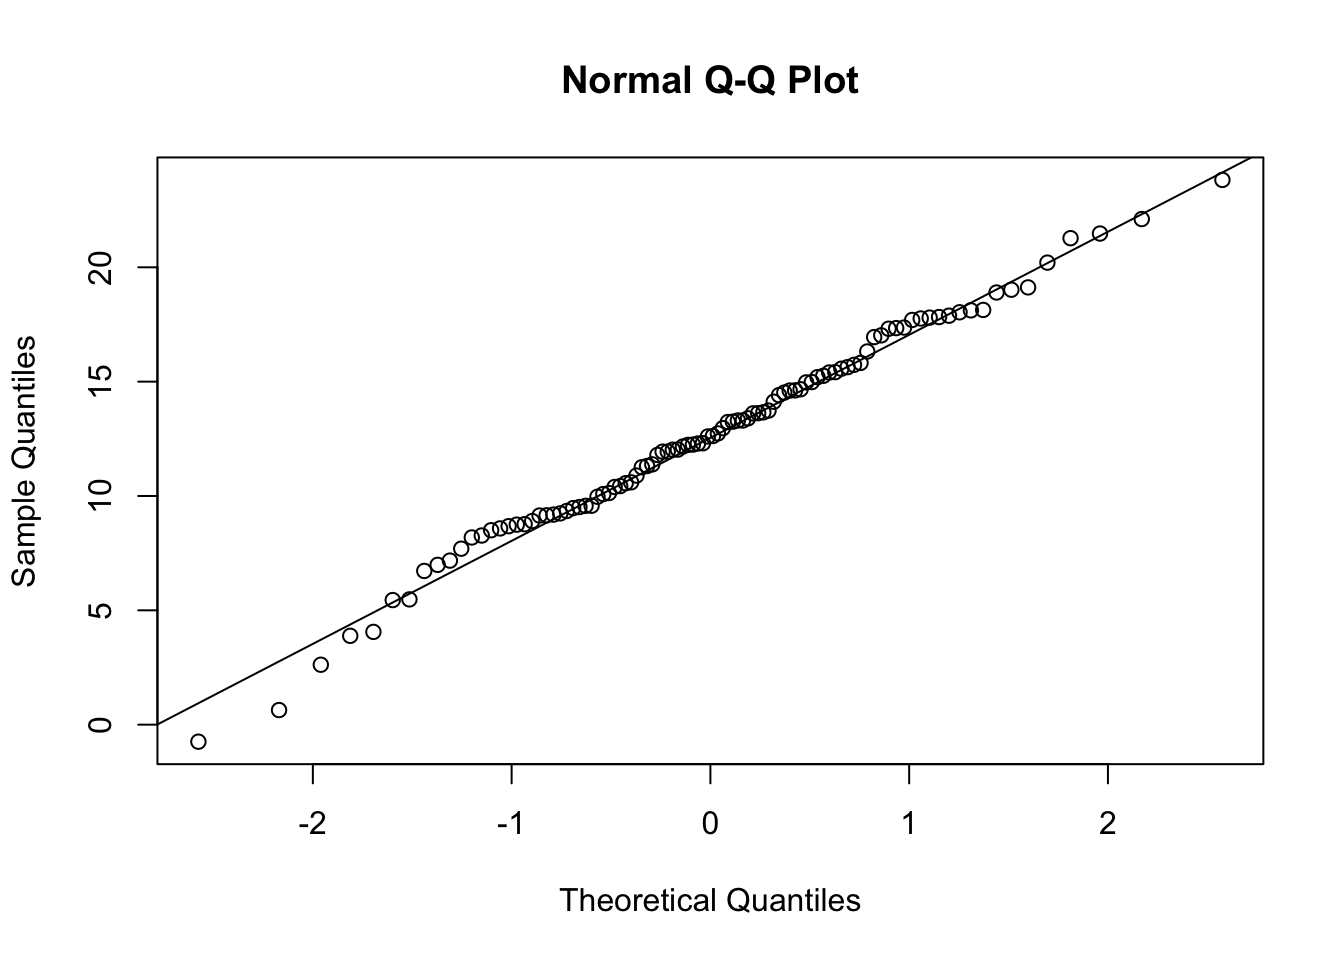
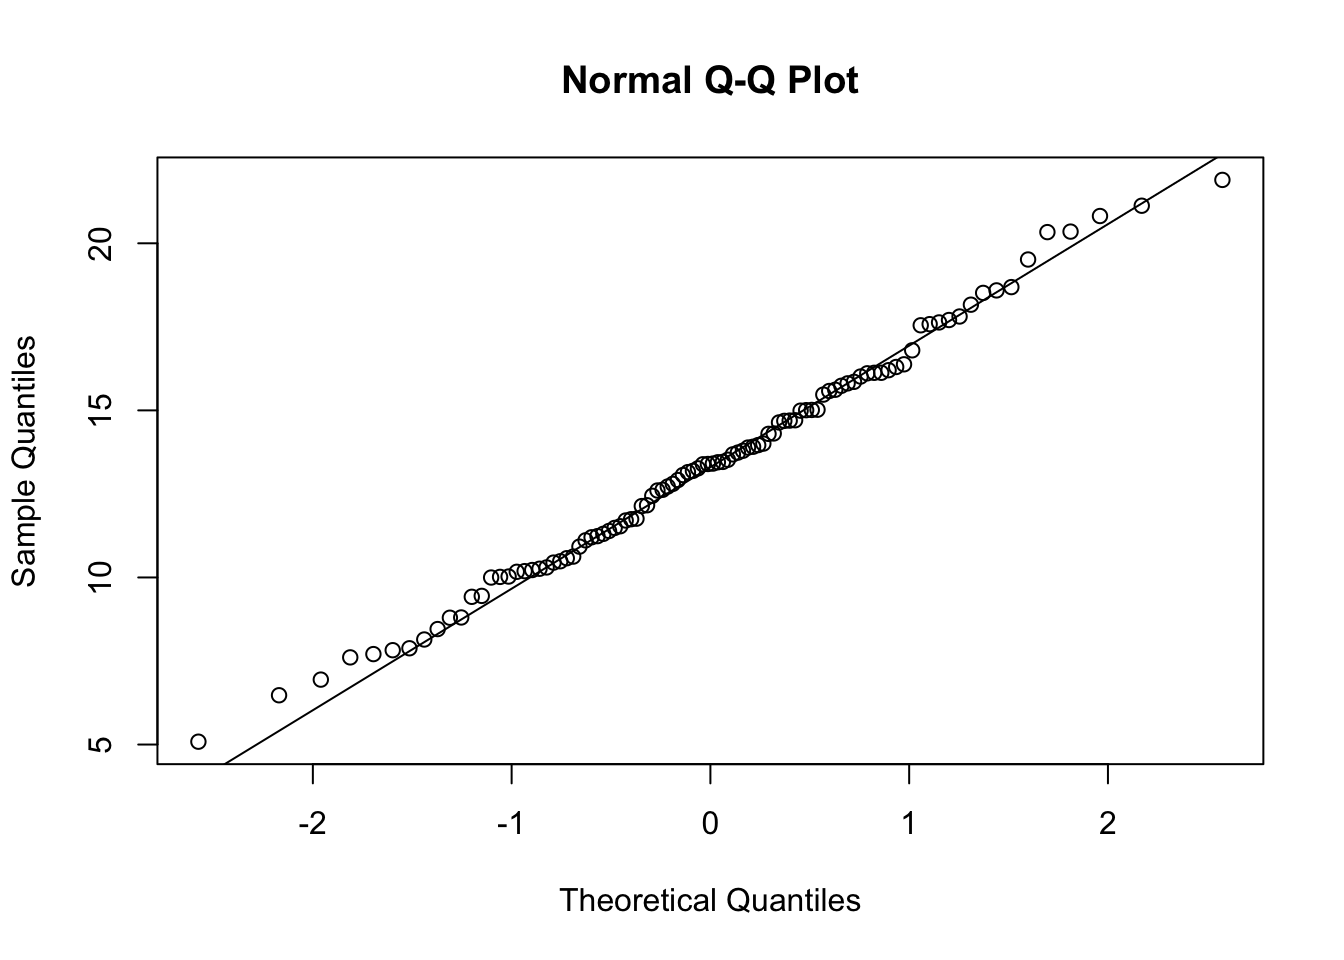
include direct link to old data sheets in lab 2

diff --git a/RLabs/troubleshooting.html b/RLabs/troubleshooting.html
@@ -11,7 +11,7 @@
 
 
 
-<title>Troubleshooting R/RStudio installation</title>
+<title>Troubleshooting R/RStudio incompatibilities</title>
 
 <script src="site_libs/header-attrs-2.31/header-attrs.js"></script>
 <script src="site_libs/jquery-3.6.0/jquery-3.6.0.min.js"></script>
@@ -562,17 +562,19 @@ document.addEventListener("DOMContentLoaded", function() {
 
 
 
-<h1 class="title toc-ignore">Troubleshooting R/RStudio installation</h1>
+<h1 class="title toc-ignore">Troubleshooting R/RStudio
+incompatibilities</h1>
 
 </div>
 
 
 <hr>
-<p>Materials on this site were developed with: R version 4.6.0
-(2026-04-24) – “Because it was There”. We generally encourage students
-to install the most recent version of R that is compatible with their
-laptop, with the hope that most laptops can support R version &gt;=
-4.0.0.</p>
+<p>Materials on this site were developed with: R version 4.6.1
+(2026-06-24) – “Happy Hop”. We generally encourage students to install
+the most recent version of R that is compatible with their laptop, with
+the hope that most laptops can support R version &gt;= 4.1.0.</p>
+<p>Should that not be feasible, this page lists some alternative ways
+forward.</p>
 <p><br></p>
 <div id="the-primary-alternative" class="section level1">
 <h1>The primary alternative</h1>
@@ -602,7 +604,7 @@ class="uri">https://docs.r-wasm.org/webr/latest/</a></p>
 </div>
 <div id="older-package-versions" class="section level1">
 <h1>Older package versions</h1>
-<p>It may be possible to do these labs with R &lt; 4.0.0. The script
+<p>It may be possible to do these labs with R &lt; 4.1.0. The script
 below can be used to install packages (+ dependencies) without relying
 on the current versions of packages on CRAN. This is useful for cases
 where the current version of a package on CRAN is not compatible with

diff --git a/RLabs/03_R_tutorial_Sampling.html b/RLabs/03_R_tutorial_Sampling.html
@@ -663,7 +663,7 @@ randomly chooses integers from a given range. To randomly sample 5
 individuals from 25 possibilities, we can use:</li>
 </ol>
 <div class="sourceCode" id="cb1"><pre class="sourceCode r"><code class="sourceCode r"><span id="cb1-1"><a href="#cb1-1" tabindex="-1"></a><span class="fu">sample.int</span>(<span class="at">n =</span> <span class="dv">25</span>, <span class="at">size =</span> <span class="dv">5</span>)</span></code></pre></div>
-<pre><code>## [1]  7 14 20  8 11</code></pre>
+<pre><code>## [1] 12 19 11 21 14</code></pre>
 <p>This tells R to give us a sample of <code>size = 5</code> numbers
 randomly chosen from the integers 1 to <code>n</code>, and here we set
 <code>n = 25</code>. (When you run this line you will almost certainly
@@ -678,7 +678,7 @@ population data:</p>
 <span id="cb3-2"><a href="#cb3-2" tabindex="-1"></a>samp <span class="ot">&lt;-</span> <span class="fu">sample.int</span>(<span class="at">n =</span> <span class="dv">25</span>, <span class="at">size =</span> <span class="dv">5</span>)</span>
 <span id="cb3-3"><a href="#cb3-3" tabindex="-1"></a><span class="co"># These are the row numbers of population_data$length we&#39;ll use:</span></span>
 <span id="cb3-4"><a href="#cb3-4" tabindex="-1"></a>samp</span></code></pre></div>
-<pre><code>## [1] 22 10 23 15 20</code></pre>
+<pre><code>## [1] 23  5 22 19  4</code></pre>
 <p>If you then run <code>population_data$length[samp]</code>, you’ll get
 the lengths of these 5 specific shells only.</p>
 <ol start="11" style="list-style-type: decimal">

diff --git a/RLabs/08_R_tutorial_Normal_and_sample_means.html b/RLabs/08_R_tutorial_Normal_and_sample_means.html
@@ -681,9 +681,9 @@ distribution</p></li>
 numbers drawn from a normal distribution with mean 13 and standard
 deviation 4:</p>
 <div class="sourceCode" id="cb6"><pre class="sourceCode r"><code class="sourceCode r"><span id="cb6-1"><a href="#cb6-1" tabindex="-1"></a><span class="fu">rnorm</span>(<span class="at">n =</span> <span class="dv">20</span>, <span class="at">mean =</span> <span class="dv">13</span>, <span class="at">sd =</span> <span class="dv">4</span>)</span></code></pre></div>
-<pre><code>##  [1] 12.397540 16.511889 15.589253  9.457669 17.948671 14.726032 15.390406
-##  [8] 16.507495 11.201407  8.074660  9.077180 17.027425 10.062905 11.650971
-## [15]  8.683795  9.232452 19.318641 13.663263 14.612998 16.374101</code></pre>
+<pre><code>##  [1] 15.721540 14.812868 11.123338 13.415014  8.886884  9.442636 15.677774
+##  [8] 19.054053 15.362594 17.640044 15.854704 11.838237 15.041075  5.451795
+## [15] 17.392105  6.676427 15.127809 14.821748 13.911682 13.372525</code></pre>
 <p>Let’s look at a QQ plot generated from 100 numbers randomly drawn
 from a normal distribution:</p>
 <div class="sourceCode" id="cb8"><pre class="sourceCode r"><code class="sourceCode r"><span id="cb8-1"><a href="#cb8-1" tabindex="-1"></a>normal_vector <span class="ot">&lt;-</span> <span class="fu">rnorm</span>(<span class="at">n =</span> <span class="dv">100</span>, <span class="at">mean =</span> <span class="dv">13</span>, <span class="at">sd =</span> <span class="dv">4</span>)</span>

diff --git a/RLabs/02_R_tutorial_Tabular_data.html b/RLabs/02_R_tutorial_Tabular_data.html
@@ -1158,9 +1158,9 @@ to load it into your R environment. A good practice is to write
 <code>library(tidyverse)</code> as one of the first lines of code in
 each R script you write for BIOL 300.</p>
 <p><br> 2. In Lab 1, Question 1, you and your fellow students may have
-recorded requested information about yourselves. Your TA will now
-provide you with data sheets for all students in your section who took
-measurements (all data are anonymous). Use the data sheets to create a
+recorded requested information about yourselves. You will now use
+similar data from previous students, which can be found in <a
+href="DataSheetsLab4.pdf">this PDF</a>. Use the data sheets to create a
 <code>.csv</code> file in Excel or Google Sheets. Include all of five of
 the variables for each of the individuals in the data sheets. Be sure to
 use variable names that are 1) legal in R and 2) intelligible to another

diff --git a/RLabs/changelog.html b/RLabs/changelog.html
@@ -588,6 +588,7 @@ updates. Check with Vikram if unsure.</p>
 <ul>
 <li>Bump R to version 4.6.1</li>
 <li>Revise Lab 1 student data sheet and stash docx &amp; pdf</li>
+<li>Revise link to data sheets in Lab 2 with DataSheetsLab4.pdf</li>
 </ul>
 </div>
 <div id="site-materials-developed-with" class="section level2">
